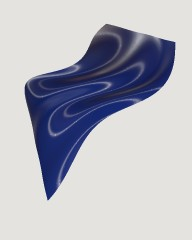
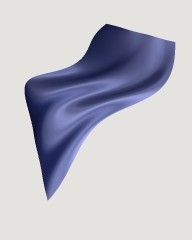
One Satin: the round-four thread model with the owner's defaults
FABRICS.satin is now the microcylinder satin (speed all4) with the owner's
dialled-in look as defaults (gs 10/3, gv 6.25, kd 0.25, eta 1.539).
Stretch satin and every thread-model trial removed from the picker and
retired to satin; MICRO_SPEED keeps only all4. Knowledge: two-tone satin
diagnosed (twisted cross threads give a broad even colour that blends
with the floats'); option recorded, not built.

Changed region(s): [[0.125, 0.0875, 0.9375, 0.8458]]

diff --git a/app/src/materials/fabric.js b/app/src/materials/fabric.js
@@ -685,20 +685,13 @@ const MICRO_Q = { K: 12, CROSS: { NT: 8, NP: 12, QR: 0.5 }, KD: { NT: 8, NP: 12,
 // - MICRO_K 6: six cone directions (12), -8.1 ms, contour stripes up to 28/255 (look-changing);
 // - MICRO_CROSS: the cross threads at 2 x 3 nodes (8 x 12), -6.0 ms, up to 30/255 (look-changing).
 // microFurnace keeps MICRO_Q (the full model's scale) for every speed.
-const MICRO_SPEED = {
-	safe: { MICRO_LCULL: '', MICRO_LLOOP: '', MICRO_DYN: '', MICRO_MIP: '', MICRO_SLOPE3: '', MICRO_KD: '' },
-	all: { MICRO_LCULL: '', MICRO_LLOOP: '', MICRO_DYN: '', MICRO_MIP: '', MICRO_SLOPE3: '', MICRO_KD: '', MICRO_K: 6, MICRO_CROSS: '' },
-};
-// Round three: model simplifications on top of 'all' (owner: bolder cuts are fine while the look holds;
-// ideas from a Fable review, 2026-10-28). The owner's pick, 'r3', keeps two (2026-10-28):
+// Round three: model simplifications (owner: bolder cuts are fine while the look holds; ideas from a
+// Fable review, 2026-10-28). Kept:
 // - MICRO_KDENV: the floats' kd share as one roughness-1 lookup about the normal times its kernel at
 //   the mean tangent, no lookups inside the quadrature;
 // - MICRO_SEG n: n tangent samples per sloped segment, each lookup blurred to the spacing.
-// Left out of r3: MICRO_LANA (below, now in round four), which drew a hard line in the highlight, and
-// uncorrelated masking, which darkened the sides (removed).
-MICRO_SPEED.r3 = { ...MICRO_SPEED.all, MICRO_KDENV: '', MICRO_SEG: 1 };
-// Round four on top of r3 (owner: close-ups must hold 60 fps; no resolution drop; third Fable review,
-// 2026-10-28):
+// Uncorrelated masking, which darkened the sides, was removed.
+// Round four (owner: close-ups must hold 60 fps; no resolution drop; third Fable review, 2026-10-28):
 // - MICRO_LANA: direct lights' narrow lobes on the sloped segments integrated analytically about the
 //   offset o* that meets the specular condition (microPointA); the constant segments stay exact, and the
 //   sloped segments' kd share is folded into them (uMicroKdW);
@@ -708,10 +701,12 @@ MICRO_SPEED.r3 = { ...MICRO_SPEED.all, MICRO_KDENV: '', MICRO_SEG: 1 };
 //   table by view angle (microLut; needs MICRO_KDENV).
 // Tried and scrapped (under 1 ms each): 3 or 4 cone directions on the sloped segments with blurred
 // lookups (-0.6, -0.2 ms).
-MICRO_SPEED.lana = { ...MICRO_SPEED.r3, MICRO_LANA: '' };
-MICRO_SPEED.lone = { ...MICRO_SPEED.lana, MICRO_LONE: '' };
-MICRO_SPEED.lut = { ...MICRO_SPEED.r3, MICRO_LUT: '' };
-MICRO_SPEED.all4 = { ...MICRO_SPEED.lone, MICRO_LUT: '' };
+// The owner chose all of them, 'all4' (Satin; 2026-10-28). The full model (no switches) and each
+// step's measurements are in the knowledge note.
+const MICRO_SPEED = {
+	all4: { MICRO_LCULL: '', MICRO_LLOOP: '', MICRO_DYN: '', MICRO_MIP: '', MICRO_SLOPE3: '', MICRO_KD: '', MICRO_K: 6, MICRO_CROSS: '',
+		MICRO_KDENV: '', MICRO_SEG: 1, MICRO_LANA: '', MICRO_LONE: '', MICRO_LUT: '' },
+};
 // A broad term by quadrature: the whole thread function (iso = 0), or only its kd share (iso = 1).
 // Lookups are blurred to about the quadrature's spacing (QR), which prefilters the integrand.
 // ENV false: the kernel alone, every lookup taken as 1 (MICRO_KDENV).
@@ -1186,14 +1181,9 @@ export const FABRICS = {
 	checker: { label: 'UV checker (debug)', roughness: 0.8, checker: 0.02 },
 	shiny: { label: 'Shiny tricot', roughness: 0.4, sheen: 0.2, sheenRoughness: 0.5, anisotropy: 0.6, knit: 1, scan: { id: 'TX-00001482', scale: 0.81, normal: 0.6 }, texScale: 1.85,
 		glint: { pitch: 0.00022, dotR: 0.4, presence: 0.25, tilt: 0.3, rough: 0.1, colorVar: 0.5, strength: 1 } },
-	// Stretch satin (GK, 76/24 nylon): broad silky highlights stretched round the body (horizontal bands
-	// on the chest in GK's turntable video), smooth at body distance; fine glints only up close. The
-	// owner's pick of seven tries (2026-10-27): its white-only shine still reads slightly plastic; a
-	// coloured-shine model is next (knowledge/engineering/rendering/fabric-shading/photo-match-gloss-ladder.md).
-	satin: { label: 'Stretch satin', roughness: 0.22, sheen: 0.15, sheenRoughness: 0.5, anisotropy: 0.9, knit: 1, scan: { id: 'TX-00001482', scale: 0.81, normal: 0.45 }, texScale: 1.85,
-		glint: { pitch: 0.00016, dotR: 0.4, presence: 0.06, tilt: 0.2, rough: 0.08, colorVar: 0.4, strength: 1 } },
-	// Satin by the microcylinder model (MICRO_FRAGMENT), on trial against Stretch satin (owner,
-	// 2026-10-27): the measured front of polyester satin charmeuse exactly as published (Sadeghi et al.
+	// Satin: the microcylinder model (MICRO_FRAGMENT), the app's only satin since 2026-10-28 (owner: it
+	// replaced Stretch satin and the speed trials, as the trial "Satin 4 all round four", MICRO_SPEED.all4).
+	// The measured front of polyester satin charmeuse as published (Sadeghi et al.
 	// 2013, Table II row c), nothing fitted by eye (owner: use the model as presented). Its albedos are
 	// the dye colour x the table's factor: the table gives (1, 0.37, 0.3) x 0.035 for the floats and
 	// x 0.2 for the cross threads, (1, 0.37, 0.3) being the sample's pink; here the piece's colour
@@ -1207,11 +1197,12 @@ export const FABRICS = {
 	// the angles measured (none returns more than 1). The table's ratio between floats and cross threads stays.
 	// It is computed per setting (microScale: the same white room at a normal view), so a panel's
 	// satin controls (applyFabric's satin) keep a white dye at full brightness.
-	// Defaults since 2026-10-28 are the owner's own satin settings (their plum design), not the table's
-	// floats (eta 1.539, kd 0.1, gs 2.5, gv 5): eta 1.505, kd 0.5, gs 10/3, gv 9.75.
-	satinmicro: { label: 'Satin (thread model)', roughness: 0.6, sheen: 0, knit: 1, scan: { id: 'TX-00001482', scale: 0.81, normal: 0.45 }, texScale: 1.85,
-		micro: { eta: 1.505,
-			flat: { A: 0.035, kd: 0.5, gs: 10 / 3, gv: 9.75, a: 0.9, offsets: [-32, -32, -18, 0, 0, 18, 32, 32], lengths: [1.33, 0.66, 2, 2, 2, 0.66, 1.33] },
+	// Defaults are the owner's dialled-in satin (2026-10-28, on Satin 4 all round four), not the table's
+	// floats (kd 0.1, gs 2.5, gv 5): sharpness 0.75x (gs 10/3), glow 1.25x (gv 6.25), milkiness 25%, the
+	// table's eta.
+	satin: { label: 'Satin', roughness: 0.6, sheen: 0, knit: 1, scan: { id: 'TX-00001482', scale: 0.81, normal: 0.45 }, texScale: 1.85,
+		micro: { eta: 1.539, speed: 'all4',
+			flat: { A: 0.035, kd: 0.25, gs: 10 / 3, gv: 6.25, a: 0.9, offsets: [-32, -32, -18, 0, 0, 18, 32, 32], lengths: [1.33, 0.66, 2, 2, 2, 0.66, 1.33] },
 			twisted: { A: 0.2, kd: 0.7, gs: 30, gv: 60, a: 0.1 } } },
 	// Wet look is a cire tricot: the knit's own fibres glazed flat by hot rollers, not a rubber skin
 	// over it, so its gloss is a softened, grain-streaked shine with the knit faintly under it. A
@@ -1256,16 +1247,6 @@ export const FABRICS = {
 	glitterfoil: { label: 'Glitter-grain foil', metalness: 1, roughness: 0.3, flake: { pitch: 0.00035, dotR: 0.58, presence: 1, tilt: 0.35, rough: 0.18, colorVar: 0.25 } },
 	illusion: { label: 'Illusion mesh (very sheer)', roughness: 0.8, sheen: 0.2, sheenRoughness: 0.6, mesh: { pitch: 0.0006, holeR: 0.46 } },
 };
-// The thread-model satin with the measured speed-ups (MICRO_SPEED; knowledge note
-// microcylinder-cloth-model.md, 2026-10-28), side by side with it for the owner to try in the app:
-// 'safe' (every option within 4/255 of satinmicro) and 'all' (those plus the two that change the look).
-// Same parameters and energy scale (microScale at the full sample counts): only the sampling differs.
-FABRICS.satinfast = { ...FABRICS.satinmicro, label: 'Satin fast (thread model, safe speed-ups)', micro: { ...FABRICS.satinmicro.micro, speed: 'safe' } };
-FABRICS.satinfastest = { ...FABRICS.satinmicro, label: 'Satin fastest (thread model, every speed-up)', micro: { ...FABRICS.satinmicro.micro, speed: 'all' } };
-// Round three as the owner picked it (MICRO_SPEED.r3), then round four on top of it.
-FABRICS.satin3 = { ...FABRICS.satinmicro, label: 'Satin 3 (thread model, fastest + one milky read + one per stretch)', micro: { ...FABRICS.satinmicro.micro, speed: 'r3' } };
-for (const [k, label] of [['lana', 'lights direct'], ['lone', 'one light read'], ['lut', 'table for cross threads'], ['all4', 'all round four']])
-	FABRICS['satin4' + k] = { ...FABRICS.satinmicro, label: `Satin 4 ${label} (thread model, round three + ${label})`, micro: { ...FABRICS.satinmicro.micro, speed: k } };
 
 // The texture size a scanned fabric starts at (as FABRICS' texScale; owner's review, 2026-10-24):
 // pink organza with glitter, pink oil-slick vegan leather.
@@ -1276,11 +1257,11 @@ export const texScaleOf = (look) => look.texScale ?? (look.texture ? SCAN_SCALE[
 // Fabrics the owner took out of the app (review, 2026-10-24) and what a design that used one shows
 // instead (doc/schema.js migrate): lace and shattered glass hologram. Retired scans are hidden from
 // the picker and dropped from a design, which then shows its base fabric (textures.js baseFabricFor);
-// TX-00001482 stays loadable, as matte lycra's own scan. The satin tries the owner compared (2026-10-27)
-// fall back to Stretch satin, which is try 2.
+// TX-00001482 stays loadable, as matte lycra's own scan. Every satin try (2026-10-27) and the
+// thread-model trials (2026-10-28) fall back to Satin, the one satin (owner, 2026-10-28; Stretch satin,
+// the three.js satin that used the key before, went with them).
 export const RETIRED_FABRICS = { lace: 'mesh', shattered: 'hologram', satin1: 'satin', satin2: 'satin', satinA: 'satin', satinB: 'satin', satinC: 'satin', satinD: 'satin', satinFC: 'satin', satinFE: 'satin',
-	// the round-three thread-model satins, replaced by one Satin 3 (owner, 2026-10-28)
-	satin3all3: 'satin3', satin3all3m: 'satin3', satin3lana: 'satin3', satin3kdenv: 'satin3', satin3seg2: 'satin3', satin3seg1: 'satin3', satin3nocorr: 'satin3' };
+	...Object.fromEntries(['satinmicro', 'satinfast', 'satinfastest', 'satin3', 'satin3all3', 'satin3all3m', 'satin3lana', 'satin3kdenv', 'satin3seg2', 'satin3seg1', 'satin3nocorr', 'satin4lana', 'satin4lone', 'satin4lut', 'satin4all4'].map((k) => [k, 'satin'])) };
 export const RETIRED_SCANS = new Set(['TX-00006026', 'TX-00005344', 'TX-00004683', 'TX-00001482', 'TX-00003863']); // opal metallic double knit, black mesh tulle, green tricot with holofoil dots, royal blue scuba, pink glitter double knit
 
 export const SECOND = ['Tone-on-tone', 'Silver', 'Gold', 'White', 'Black'];
@@ -1301,7 +1282,7 @@ function secondColour(base, mode, forOmbre, out) {
 // [white surface shine, coloured light per unit of the table's albedo factors]: a transliteration of
 // MICRO_FRAGMENT (microNarrow, microBroad, Q) with every environment lookup 1, at the shader's own
 // sample counts (MICRO_Q). Keep the two in step. Its scale is the
-// satinmicro scale (FABRICS comment): about 14.6 at the table's values.
+// satin scale (FABRICS comment): about 14.6 at the table's values.
 const _dot = (a, b) => a[0] * b[0] + a[1] * b[1] + a[2] * b[2];
 const _cross = (a, b) => [a[1] * b[2] - a[2] * b[1], a[2] * b[0] - a[0] * b[2], a[0] * b[1] - a[1] * b[0]];
 const _comb = (...p) => [0, 1, 2].map((i) => p.reduce((s, [k, v]) => s + k * v[i], 0)); // sum of k * v
@@ -1408,7 +1389,7 @@ export function microScale(eta, F, W) {
 // gs (highlight sharpness: the surface lobe's width, degrees), gv (colour glow width: the volume
 // lobe's, degrees), kd (milkiness: the isotropic share of the coloured light), eta (sheen strength:
 // the threads' refractive index, shared by both sets). The cross threads keep the table's values.
-export const SATIN_DEFAULTS = (() => { const mc = FABRICS.satinmicro.micro; return { gs: mc.flat.gs, gv: mc.flat.gv, kd: mc.flat.kd, eta: mc.eta }; })();
+export const SATIN_DEFAULTS = (() => { const mc = FABRICS.satin.micro; return { gs: mc.flat.gs, gv: mc.flat.gv, kd: mc.flat.kd, eta: mc.eta }; })();
 
 const _c = new THREE.Color();
 // colour2: an explicit second colour (hex) for the foil, the ombre's far end or the duochrome

diff --git a/app/src/ui/FabricPicker.jsx b/app/src/ui/FabricPicker.jsx
@@ -15,7 +15,7 @@ import { thumbName } from './Inspector.jsx';
 // mesh in 83% of garments, matte 45%, wet look and foil 33%, shiny 28%, mystique 28%, then the
 // rarer finishes), the plainest first. The sublimated-ombre fabrics stay out: a gradient is a
 // setting of any piece now; the debug checker too.
-const ORDER = ['matte', 'shiny', 'mystique', 'opalmystique', 'wet', 'satin', 'satinmicro', 'satinfast', 'satinfastest', 'satin3', 'satin4all4', 'satin4lana', 'satin4lone', 'satin4lut', 'mesh', 'foil', 'hologram', 'glitter', 'velvet', 'illusion', 'liquidholo', 'hologlitter', 'oilslick', 'duochrome', 'glitterfoil', 'pearl', 'chrome', 'crushed', 'glittermesh'];
+const ORDER = ['matte', 'shiny', 'mystique', 'opalmystique', 'wet', 'satin','mesh', 'foil', 'hologram', 'glitter', 'velvet', 'illusion', 'liquidholo', 'hologlitter', 'oilslick', 'duochrome', 'glitterfoil', 'pearl', 'chrome', 'crushed', 'glittermesh'];
 const HIDDEN = new Set(['checker', 'ombre', 'ombremystique']);
 const KEYS = [...ORDER.filter((k) => FABRICS[k]), ...Object.keys(FABRICS).filter((k) => !ORDER.includes(k) && !HIDDEN.has(k))];
 

diff --git a/app/src/dev/thumbnails.js b/app/src/dev/thumbnails.js
@@ -138,7 +138,7 @@ export async function blocks(only = null) { // only: tile names to render ('stra
 // The colour each app fabric's tile shows it in (a fabric takes any colour; these show it well):
 // [colour, second, colour2 (lace: the motifs')].
 export const MATERIAL_COLOURS = {
-	matte: ['#1b3fb5'], shiny: ['#b3122e'], wet: ['#0c0c10'], satin: ['#1a2350'], satinmicro: ['#1a2350'], mystique: ['#5b2a86'], opalmystique: ['#f2f0f4', 'White'], hologram: ['#16205c', 'Silver'],
+	matte: ['#1b3fb5'], shiny: ['#b3122e'], wet: ['#0c0c10'], satin: ['#1a2350'],mystique: ['#5b2a86'], opalmystique: ['#f2f0f4', 'White'], hologram: ['#16205c', 'Silver'],
 	shattered: ['#c8ccd8'], foil: ['#e6bf58'], glitter: ['#ff4f8b'], hologlitter: ['#c8ccd8'], velvet: ['#6b0f22'],
 	crushed: ['#0b7d55'], pearl: ['#f4f4f2'], mesh: ['#0c0c10'], glittermesh: ['#f6b6c8'], ombre: ['#ff4f8b'],
 	ombremystique: ['#5b2a86'], liquidholo: ['#e8e6f0'], oilslick: ['#16205c'], duochrome: ['#0b7d7a'], chrome: ['#c8ccd8'],

diff --git a/knowledge/engineering/rendering/fabric-shading/microcylinder-cloth-model.md b/knowledge/engineering/rendering/fabric-shading/microcylinder-cloth-model.md
@@ -480,6 +480,37 @@ light, which the 8 × 12 quadrature catches. MICRO_LUT (one lookup about n times
 integrated with every lookup 1) does not lose that light, which is why the kernel table brings Satin 3's
 brightness back. Map: `app/captures/satin-micro/opt7/darkening.jpg`.
 
+**One Satin (owner, 2026-10-28).** The owner chose "Satin 4 all round four" and dialled it in:
+sharpness 0.75× (γs 10/3°), glow 1.25× (γv 6.25°), milkiness 25%, sheen at the paper's 4.5%
+(η 1.539). It is now the app's only satin: key `satin`, label "Satin", `micro.speed: 'all4'`, those
+values as defaults. Removed from the picker: Stretch satin (the three.js satin that held the key),
+Satin (thread model), fast, fastest, Satin 3 and the Satin 4 variants. All of them map to `satin` in
+`RETIRED_FABRICS`, so old designs open as the new Satin. `MICRO_SPEED` keeps only `all4`. The shader
+switches stay, so the full model is still the shader with no defines (for future comparisons).
+
+**Why the two-tone (shot) satin shows one blended colour (owner, 2026-10-28).** Test: owner
+design, teal `#2e616b` floats and red `#c0182a` cross threads, then each set alone with the other
+black (`app/captures/satin-micro/duo/duo-diagnosis.jpg`).
+- Each set alone covers the whole torso fairly evenly. Together they add up in every pixel to one
+  mixed hue (pink, and red-salmon when swapped). There is no place where one colour shows and the
+  other does not.
+- Causes, from the model as set up:
+  1. The cross threads are the charmeuse's *twisted* threads: very broad lobes (γs 30°, γv 60°)
+     and kd 0.7. Their colour is a soft, even glow that hardly depends on angle. Their albedo
+     factor is 0.2 against the floats' 0.035, which offsets their 0.1 coverage.
+  2. The floats' colour is also broad at these settings (γv 6.25° glow plus kd 0.25).
+  3. Both sets' surface highlights are white (Fresnel), so no highlight carries a dye colour.
+  4. In Satin (MICRO_LUT) the cross threads are a view-dependent term times one blurred lookup
+     about the normal. They cannot form a highlight band of their own, whatever their parameters.
+- A shot fabric reads as two colours because each thread set's coloured reflection peaks at
+  different angles. In the paper's shot silk (row e) both sets are flat with narrow lobes (γ 4-5°
+  / 8-10°, kd 0.1), so each colour appears where its own threads catch the light.
+- Option (not built; owner to choose): when a second colour is set, light the cross threads like
+  the floats. One constant tangent (their direction, round the body) with narrow lobes (row e's
+  dir 2: γs 5°, γv 10°, kd 0.1) through the cone path and the direct lights, and more coverage.
+  Each colour would then show in its own bands: floats' across the body, cross threads' round it.
+  Estimated cost: one more constant-segment tangent, under 1 ms.
+
 **Testing pitfalls:**
 - A shader that fails to compile draws nothing, so its timing is faster than the scene without
   satin. Check `LINK_STATUS` before trusting a number (one edit joined a line onto `#elif`).

diff --git a/knowledge/log.md b/knowledge/log.md
@@ -1,6 +1,7 @@
 # Bundle update log
 
 ## 2026-10-28
+* **Update**: [Microcylinder cloth model](/engineering/rendering/fabric-shading/microcylinder-cloth-model.md): one Satin (the round-four thread model, owner's dialled-in defaults) replaces Stretch satin and every trial; two-tone satin diagnosed: the twisted cross threads give a broad even colour that blends with the floats' in every pixel, so no second tone shows (option recorded, not built).
 * **Update**: [Microcylinder cloth model](/engineering/rendering/fabric-shading/microcylinder-cloth-model.md): Satin fastest's darkening traced to the cross threads' 2 x 3 samples (5.6/255 darker, less saturated); the 6 cone directions change brightness by 0.1.
 * **Update**: [Microcylinder cloth model](/engineering/rendering/fabric-shading/microcylinder-cloth-model.md): owner's review: hard highlight line from the analytic direct lights traced to a curve-density jump at segment joins and fixed (Gaussian-weighted density); uncorrelated masking removed; one new Satin 3 (one milky read, one per stretch) with round four rebased on it: 20.7 → 15.1 ms in close-up, the kernel table removing Satin 3's slight darkening.
 * **Update**: [Microcylinder cloth model](/engineering/rendering/fabric-shading/microcylinder-cloth-model.md): round four in a torso close-up: one evaluation per direct light and a kernel table for the cross threads and kd share, together 17.4 → 14.8 ms (under 60 fps' 16.7); fewer sloped-segment cone directions scrapped (under 1 ms).

diff --git a/knowledge/engineering/rendering/fabric-shading/photo-match-gloss-ladder.md b/knowledge/engineering/rendering/fabric-shading/photo-match-gloss-ladder.md
@@ -89,6 +89,9 @@ side-by-side in the owner's setup and the failed try F, the owner chose **try 2*
 It is now `satin` (Stretch satin). Every other try, `SATIN_TRY` and their tiles are removed, and
 designs naming a removed try open on `satin` (`RETIRED_FABRICS`).[^owner]
 
+**Superseded (owner, 2026-10-28):** Stretch satin is removed. The key `satin` is now the
+thread-model Satin ([microcylinder cloth model](microcylinder-cloth-model.md)), the app's only satin.
+
 # Coloured shine (try F)
 
 The owner saw tries 2, C and E as slightly plastic or greyed. A second GK photo of the navy
